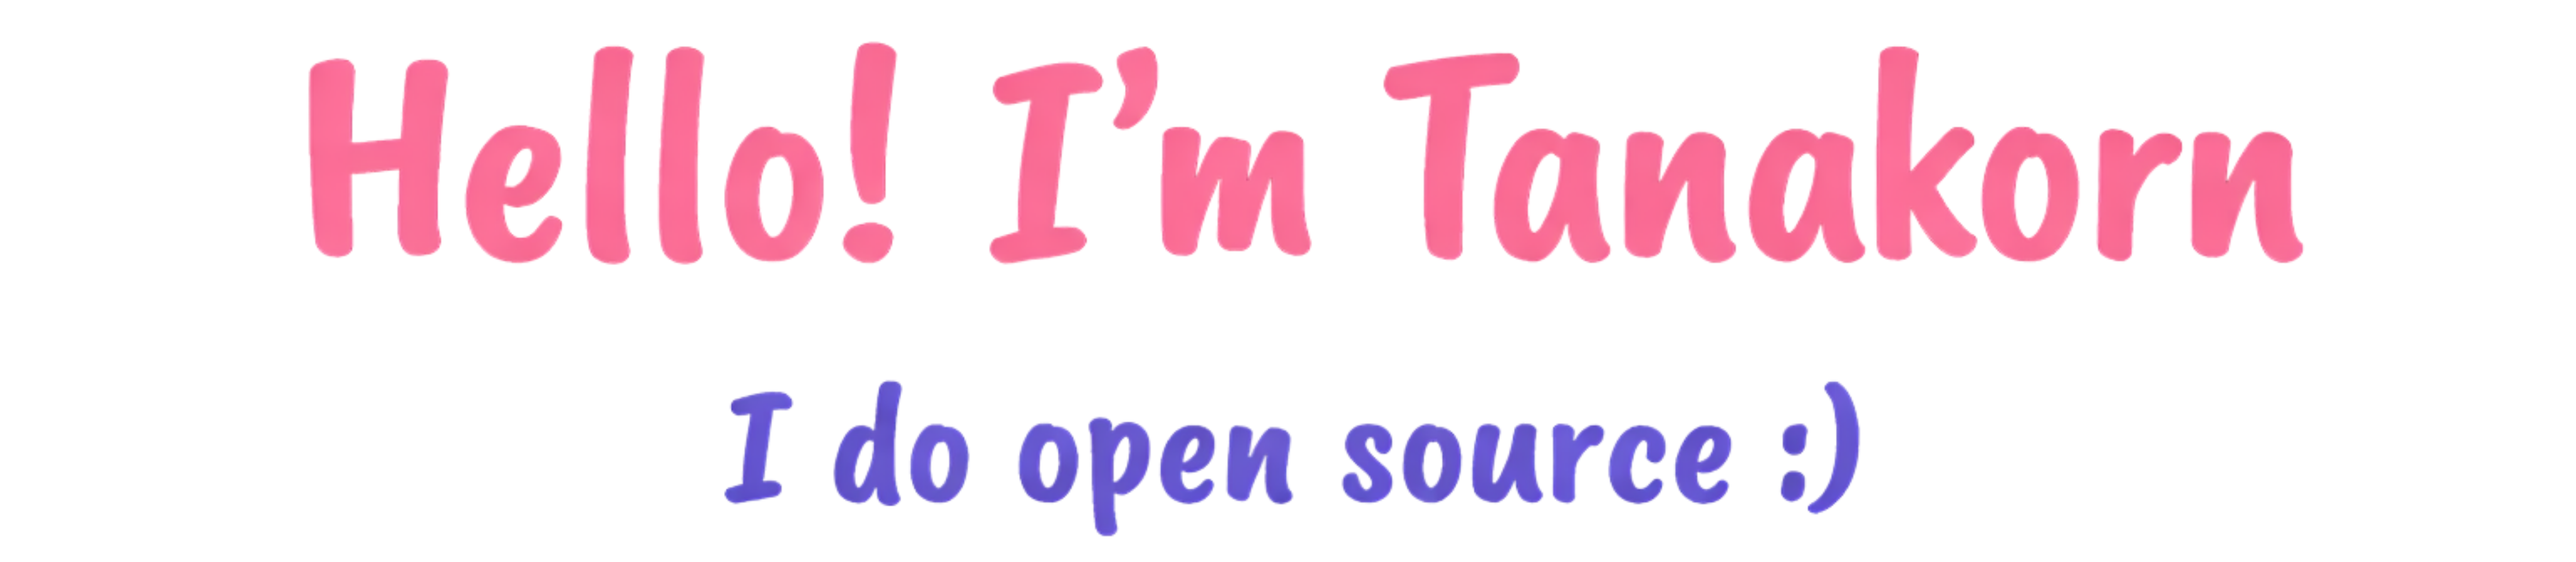
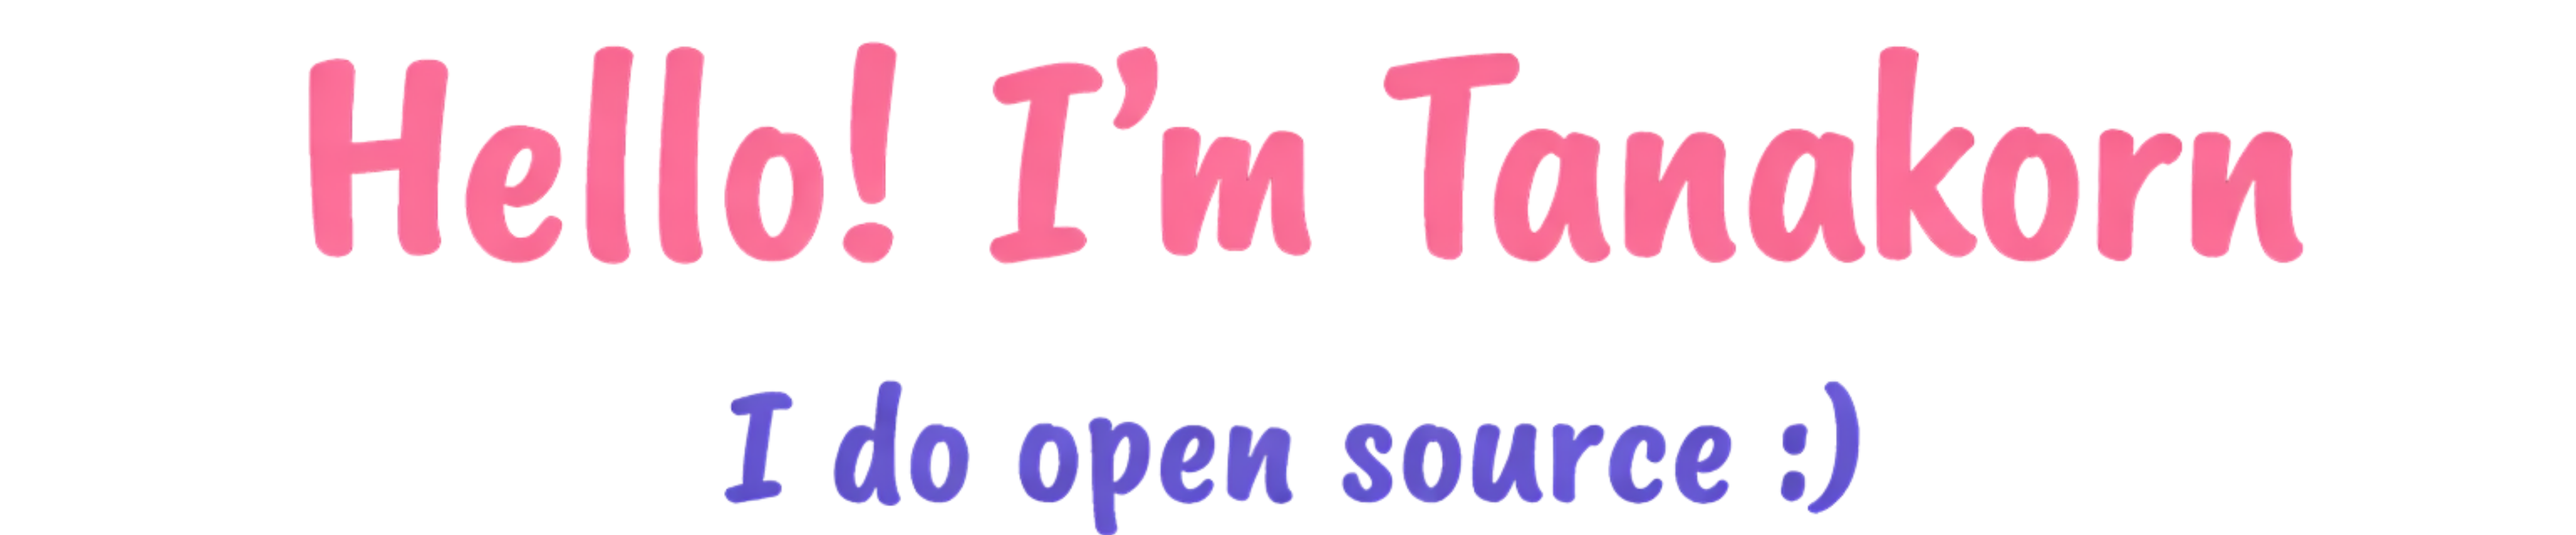
Update Image

diff --git a/README.md b/README.md
@@ -1,6 +1,4 @@
-<p align="center"><img width="40%" alt="Hello, I'm Tanakorn. I do open source!" src="./assets/Tanakorn.png" /></a></p>
-
-<br />
+<p align="center"><img width="60%" alt="Hello, I'm Tanakorn. I do open source!" src="./assets/Tanakorn.png" /></a></p>
 
 <p align="center">
 Computer Science Student (Year 2) • Aspiring Fullstack Developer
@@ -70,7 +68,3 @@ I am looking for an **Internship** to gain real-world experience, learn from sen
 > "I might not know everything yet, but I am a fast learner and not afraid to ask questions."
 
 ---
-
-<p align="center">
-  <img src="https://i.pinimg.com/originals/2f/91/8e/2f918e0fbd8f7f7d3e8e4c2a58f0e3a9.gif" width="55%" />
-</p>
